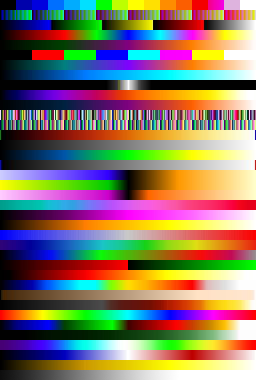
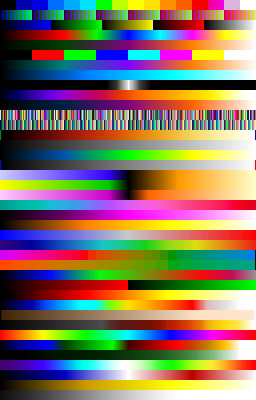
Add janelia luts, pup_br.lut and pup_nr.lut
Former-commit-id: f441b23a51a0197c3a78a262d93524d308e150c7

diff --git a/components/tools/OmeroWeb/omeroweb/webgateway/static/webgateway/css/ome.viewport.css b/components/tools/OmeroWeb/omeroweb/webgateway/static/webgateway/css/ome.viewport.css
@@ -186,7 +186,7 @@ div.weblitz-viewport-tiles img {
 
 .lutBackground {
   background-image: url('../img/luts_10.png');
-  background-size: 100% 1140px;   /* 3 x height - each lut scales to 30px high */
+  background-size: 100% 1200px;   /* 3 x height - each lut scales to 30px high */
   background-repeat: no-repeat;
   image-rendering: pixelated;
 }

diff --git a/components/tools/OmeroWeb/omeroweb/webgateway/static/webgateway/js/ome.viewport.js b/components/tools/OmeroWeb/omeroweb/webgateway/static/webgateway/js/ome.viewport.js
@@ -49,6 +49,8 @@ OME.LUT_NAMES = ['16_colors.lut',
                  'orange_hot.lut',
                  'phase.lut',
                  'physics.lut',
+                 'pup_br.lut',
+                 'pup_nr.lut',
                  'rainbow_rgb.lut',
                  'red-green.lut',
                  'red_hot.lut',
